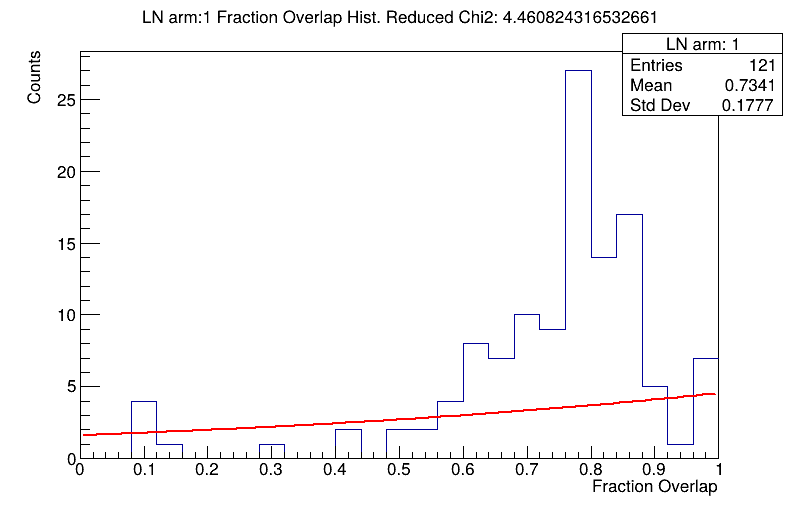
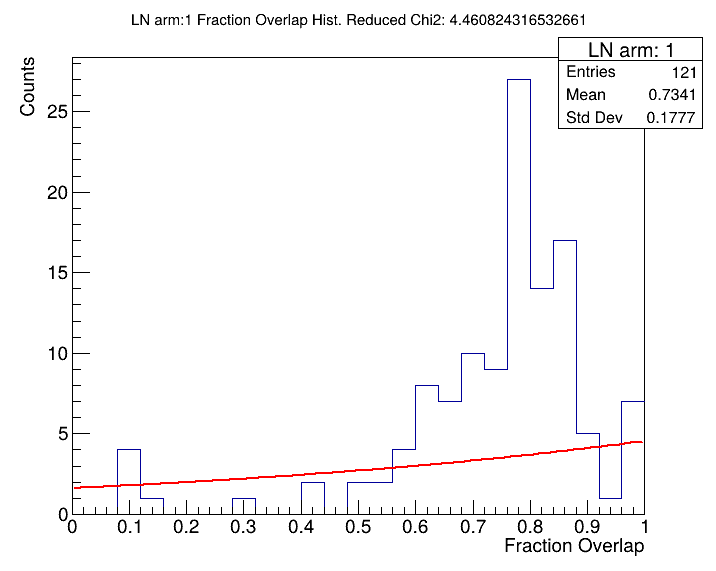
added template import statement, reran code, updated part of template

diff --git a/data_processing_programs/sspaner_histograms_arm_split.py b/data_processing_programs/sspaner_histograms_arm_split.py
@@ -1,0 +1,86 @@
+from pathlib import Path
+import pandas as pd
+import numpy as np
+import ROOT
+import sys
+
+import sspaner_pat_data_3_processing_template as template
+
+all_data_df = template.all_data_df
+
+fit_function = ROOT.TF1("exp1","[0] * TMath::Exp(-[1]*(1-x))",0,1)
+fit_function.SetParNames("Norm", "Lambda")
+fit_function.SetParameters(300,5)
+
+full_hist = ROOT.TH1F("h",f"Total Fraction Overlap",25,0,1)
+full_hist_arm1 = ROOT.TH1F("full hist arm 1",f"Total Fraction Overlap",25,0,1)
+full_hist_arm2 = ROOT.TH1F("full hist arm 2",f"Total Fraction Overlap",25,0,1)
+hists = []
+organs = []
+for (organ,arm), df_organ in all_data_df.groupby(["Organ_Clean","arm"]):
+    hist = ROOT.TH1F(f"{organ} arm: {arm}",f"{organ} arm:{arm} Fraction Overlap Hist;Fraction Overlap;Counts", 25, 0, 1)
+    for val in df_organ["FractionOverlap"]:
+        if val != "NaN":
+            hist.Fill(val)
+            full_hist.Fill(val)
+
+            if arm == 1:
+                full_hist_arm1.Fill(val)
+            else:
+                full_hist_arm2.Fill(val)
+
+    print(f'{organ} arm:{arm} fit results')
+    fit_result = hist.Fit(fit_function, "RS")
+    try: 
+        chi2 = fit_result.Chi2()
+        ndf = fit_result.Ndf()
+        rchi2 = chi2/ndf
+        hist.SetTitle(f"{organ} arm:{arm} Fraction Overlap Hist. Reduced Chi2: {rchi2};Fraction Overlap; Counts")
+    except:
+       print("fit not working for {organ}...")
+       continue
+    hists.append(hist)
+    organs.append([organ,arm])
+
+print('all data fit result')
+
+full_hist_fit_result = full_hist.Fit(fit_function, "RS")
+
+chi2 = full_hist_fit_result.Chi2()
+ndf = full_hist_fit_result.Ndf()
+rchi2 = chi2/ndf
+
+full_hist.SetTitle(f"Fraction Overlap Hist for all Organs. Reduced Chi2: {rchi2};Fraction Overlap; Counts")
+hists.append(full_hist)
+organs.append(["Full_Hist",0])
+
+
+full_hist_arms = [full_hist_arm1, full_hist_arm2]
+arm_full_hist_arms = 1
+for hist in full_hist_arms:
+
+    print(f'Full hist arm: {arm_full_hist_arms} fit result')
+    full_hist_fit_result = hist.Fit(fit_function, "RS")
+
+    chi2 = full_hist_fit_result.Chi2()
+    ndf = full_hist_fit_result.Ndf()
+    rchi2 = chi2/ndf
+
+    hist.SetTitle(f"Fraction Overlap Hist for all Organs in Arm {arm_full_hist_arms}. Reduced Chi2: {rchi2};Fraction Overlap; Counts")
+    hists.append(hist)
+    organs.append(["Full Hist",arm_full_hist_arms])
+    arm_full_hist_arms+=1
+
+
+
+c = ROOT.TCanvas("c","canvas", 800,600)
+organ_index = 0
+for hist in hists:
+    organ = organs[organ_index][0]
+    arm = organs[organ_index][1]
+    hist.Draw()
+    c.Update()
+    c.SaveAs(f"organ_hists/by_arm/{organ}_arm{arm}_hist.png")
+    organ_index+=1
+
+input("Please press enter to exit...")

diff --git a/data_processing_programs/sspaner_pat_data_3_processing_template.py b/data_processing_programs/sspaner_pat_data_3_processing_template.py
@@ -22,11 +22,10 @@ all_data_df = pd.concat(dfs, ignore_index=True)
 
 organ_name_dict = {"Aorta_KW":"Aorta", "BronchialTree_NoGTV":"BronchialTree", "BronchialTree_Prox":"BronchialTree","BronchialTree_Prox_KW":"BronchialTree", "A_Pulmonary":"PulmonaryArtery", "ChestWal":"CW", "ChestWall":"CW", "ChestWall_L":"CW", "ChestWall_New":"CW", "ChestWall_R":"CW", "Chestwall":"CW","Heart_KW":"Heart","LN-EContour":"LN", "LN-Econtour":"LN", "LN-Econtour-KW":"LN","Lung-ITV":"Lungs", "Lungs-ITV":"Lungs", "Lymph Node":"LN", "Lymph Node-Atlas":"LN", "LymphNode - Econtour":"LN", "LymphNode Atlas":"LN","LymphNode-ATlas":"LN","LymphNode-Atlas":"LN", "LymphNode-Econtour":"LN", "LymphNodeAtlas":"LN","LymphNode_Atlas":"LN","Lymphnode-Atlas":"LN","PA":"PulmonaryArtery","PA_KW":"PulmonaryArtery","PBT":"BronchialTree", "Prox Bronchial Tree":"BronchialTree", "ProximalBronchial_Tree":"BronchialTree","Pulm Art":"PulmonaryArtery","Pulm Artery":"PulmonaryArtery","PulmArt":"PulmonaryArtery","PulmArtery":"PulmonaryArtery","Pulm_Art":"PulmonaryArtery","Pulmonary Artery":"PulmonaryArtery","PulmonaryArteries":"PulmonaryArtery","Pulmonary_A":"PulmonaryArtery","Pulmonary_Artery":"PulmonaryArtery","S_Venacava_V":"VC","Sup Vena Cava":"VC","SuperiorVenaCava":"VC","T Spine":"TSpine","T spine":"TSpine","Thoracic Spine":"TSpine","Thoracic Vertebrae":"TSpine","Thoracic spine":"TSpine","ThoracicSpine":"TSpine","ThoracicSpine dl":"TSpine","ThoracicSpine_KW":"TSpine","Thoracic_Spine":"TSpine","Thoracic_spine":"TSpine","ThoracicSpine":"TSpine","TotalLung-ITV":"Lungs","Tspine":"TSpine","Tspine_vertebral bodies":"TSpine","VC_KW":"VC","V_Cava":"VC","V_CavaSuperior":"VC","V_Cava_Inf":"IVC","V_Cava_Sup":"VC","Vena Cava":"VC","VenaCava":"VC","VenaCava Sup":"VC","VenaCavaSuperior":"VC","heart":"Heart","pulmonary artery":"PulmonaryArtery","thoracic spine":"TSpine","ThorasicSpine":"TSpine", "Pulmonary Vessels":"PulmonaryArtery","SVC":"VC"}
 
-removed_vals = ["IVC", "SpinalCord", "ITV"]
+removed_vals = ["IVC", "SpinalCord", "ITV","Bronchus"]
 all_data_df["Organ_Clean"] = all_data_df["Organ"].replace(organ_name_dict)
 all_data_df = all_data_df[~all_data_df["Organ_Clean"].isin(removed_vals)]
 all_data_df = all_data_df[all_data_df["Unnamed: 0"] != 0] #elim control ct for analysis"
 all_data_df = all_data_df.rename(columns={"Unnamed: 0":"CT#"})
 
-print(all_data_df.columns)
-input("Please press enter to exit...")
+

diff --git a/data_processing_programs/sspaner_V15_stats.py b/data_processing_programs/sspaner_V15_stats.py
@@ -1,0 +1,38 @@
+from pathlib import Path
+import pandas as pd
+import numpy as np
+import ROOT
+import sys
+
+import sspaner_pat_data_3_processing_template as template
+
+all_data_df = template.all_data_df
+
+kept_cols = ['Organ_Clean', 'arm', 'V1.0 dosevol', 'V2.0 dosevol', 'V5.0 dosevol']
+
+analyzed_cols = ['V1.0 dosevol','V2.0 dosevol', 'V5.0 dosevol']
+analyzed_data_df = all_data_df[kept_cols]
+
+data_file_name = "v1-5_outputs/V1-5_stats.csv"
+csv_header = "organ,col name,mean,min,max,std,range"
+with open(data_file_name, "w") as f:
+    f.write(f"{csv_header}\n")
+
+for organ, df_organ in analyzed_data_df.groupby("Organ_Clean"):
+    for col_name in analyzed_cols:
+        col = df_organ[col_name]
+        mean = col.mean()
+        min_ = col.min()
+        max_ = col.max()
+        std = col.std()
+        range_ = max_ - min_
+        
+        stats = f"{organ},{col_name},{mean},{min_},{max_},{std},{range_}"
+
+        with open(data_file_name, "a") as f:
+            f.write(f"{stats}\n")
+        
+        print(stats)
+
+print(f"Data saved to {data_file_name}")
+input("Please press enter to exit...")
